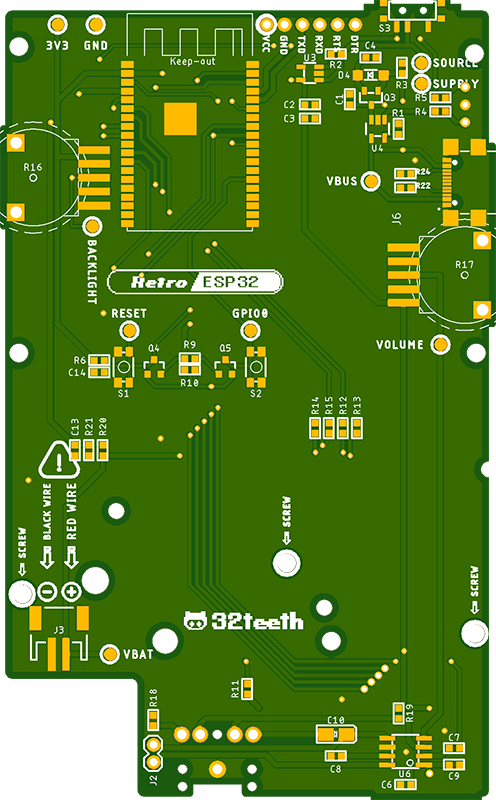
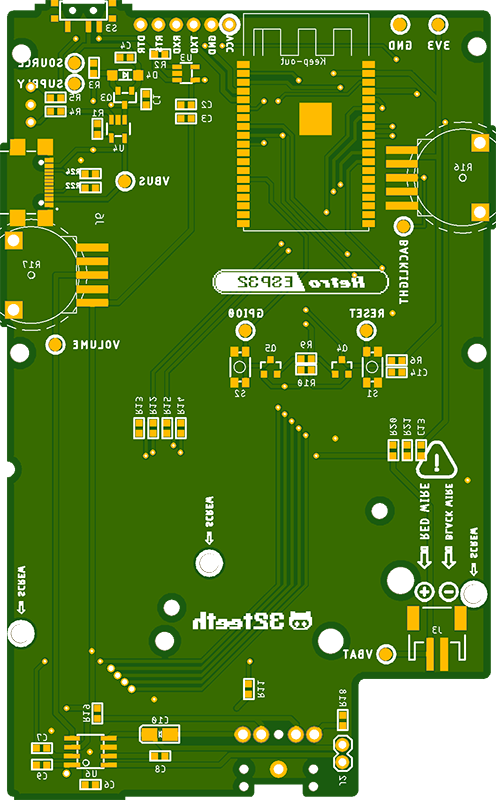
[feature] - add images

diff --git a/circuitboard.html b/circuitboard.html
@@ -1,0 +1,54 @@
+<circuitboard>
+  <top></top>
+  <bottom></bottom>
+</circuitboard>
+
+<style>
+:root {
+  --circuitboard-width: 496;
+  --circuitboard-height: 800;
+}
+
+body {
+  display: flex;
+  justify-content: center;
+  align-items: center;
+  width: 100vw;
+  height: 100vh;
+}
+
+circuitboard {
+  display: flex;
+  width: calc(var(--circuitboard-width) / 16 * 1em);
+  height: calc(var(--circuitboard-height) / 16 * 1em);
+  position: relative;
+  animation: turn 5s infinite;
+}
+
+top,
+bottom {
+  background: url('https://raw.githubusercontent.com/32teeth/codepen-assets/main/images/circuitboard-top.png');
+  background-repeat: no-repeat;
+  width: calc(var(--circuitboard-width) / 16 * 1em);
+  height: calc(var(--circuitboard-height) / 16 * 1em);
+  position: absolute;
+  top: 0;
+  left: 0;
+}
+
+top {
+  backface-visibility: hidden;
+  z-index: 1;
+}
+
+bottom {
+  background: url('https://raw.githubusercontent.com/32teeth/codepen-assets/main/images/circuitboard-bottom.png');
+  transform: rotateY(180deg);
+}
+
+@keyframes turn {
+  to {
+    transform: rotateY(360deg);
+  }
+}
+</style>
